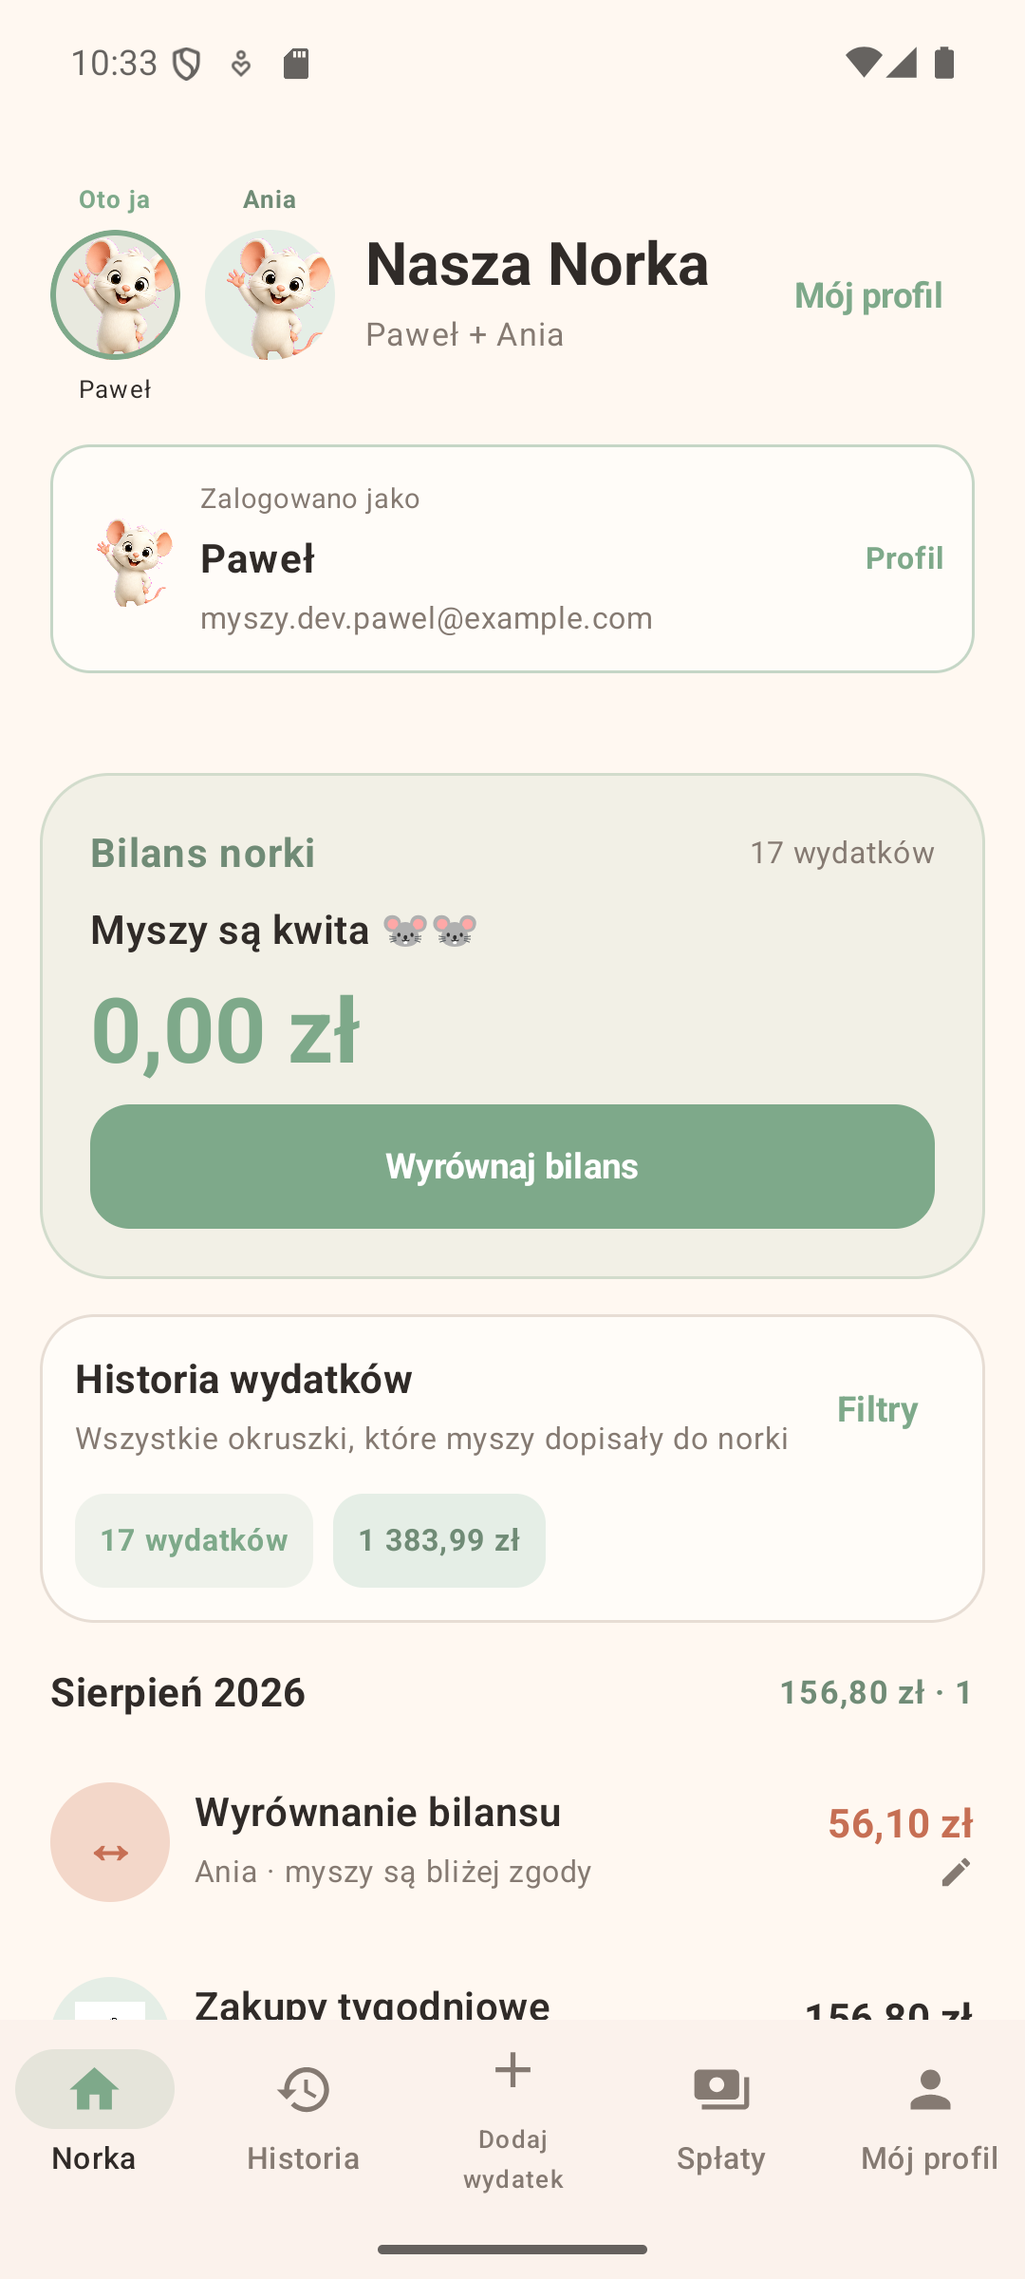
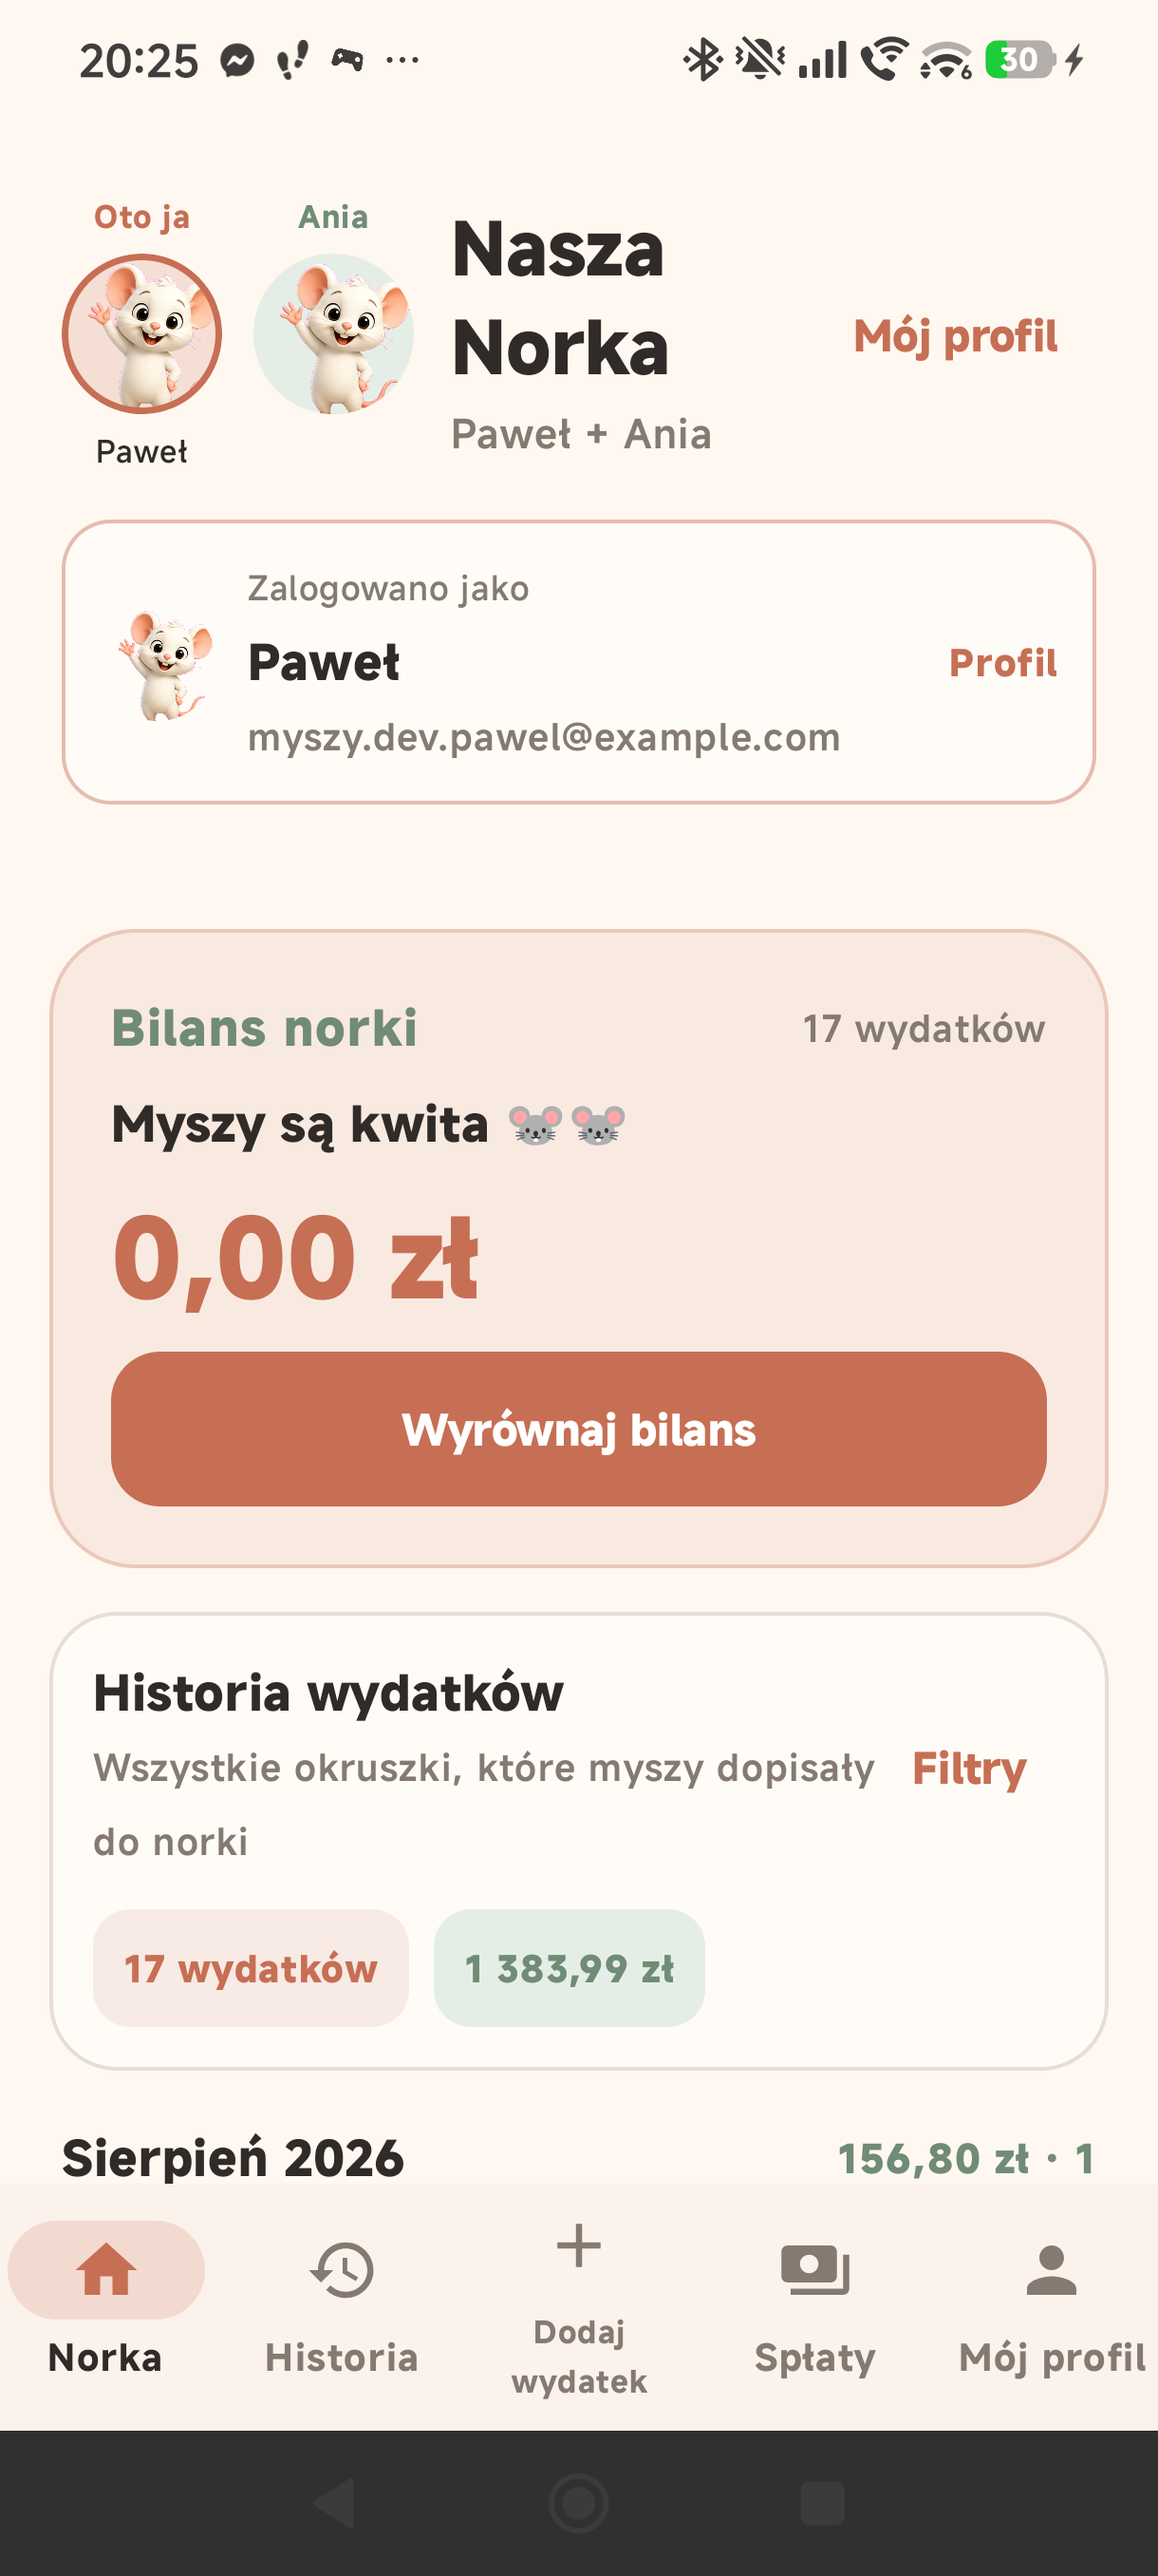
feat: refresh portfolio screenshots and settlement styling

diff --git a/app/src/main/java/pl/razem/myszy/MainActivity.kt b/app/src/main/java/pl/razem/myszy/MainActivity.kt
@@ -1091,15 +1091,16 @@ fun SettlementHistoryScreen(
                 item { Text(formatExpenseMonth(month), color = MouseInk, fontWeight = FontWeight.Bold, style = MaterialTheme.typography.titleMedium, modifier = Modifier.padding(top = 4.dp)) }
                 items(entries, key = { it.id }, contentType = { "settlement" }) { payment ->
                     val byPawel = isPawel(payment.payer)
-                    Surface(Modifier.fillMaxWidth().clickable { edit(payment) }, color = MouseSurface, shape = RoundedCornerShape(18.dp), border = BorderStroke(1.dp, MouseLine)) {
+                    Surface(Modifier.fillMaxWidth().clickable { edit(payment) }, color = MouseLavenderSoft.copy(alpha = .78f), shape = RoundedCornerShape(18.dp), border = BorderStroke(1.5.dp, MouseLavender.copy(alpha = .55f))) {
                         Row(Modifier.padding(14.dp), verticalAlignment = Alignment.CenterVertically) {
                             Surface(color = MouseLavenderSoft, shape = CircleShape, modifier = Modifier.size(48.dp)) { Image(painterResource(if (byPawel) R.drawable.misio_pawel else R.drawable.mysza_ania), null, Modifier.padding(3.dp).clip(CircleShape), contentScale = ContentScale.Crop) }
                             Spacer(Modifier.width(11.dp))
                             Column(Modifier.weight(1f)) {
                                 val payerName = payment.payer.ifBlank { currentName }
                                 val receiverName = if (payerName.equals(currentName, ignoreCase = true)) partnerName else currentName
-                                Text("$payerName spłaca $receiverName", color = MouseInk, fontWeight = FontWeight.Bold)
-                                Text(formatExpenseDate(payment.occurredAt), color = MouseMuted, fontSize = 12.sp)
+                                Text("$payerName spłaca $receiverName", color = MouseInk, fontWeight = FontWeight.Bold, maxLines = 1)
+                                Surface(color = MouseLavender, shape = RoundedCornerShape(7.dp)) { Text("WYRÓWNANIE", color = Color.White, fontSize = 9.sp, fontWeight = FontWeight.ExtraBold, modifier = Modifier.padding(horizontal = 7.dp, vertical = 3.dp)) }
+                                Text(formatExpenseDate(payment.occurredAt), color = MouseMuted, fontSize = 12.sp, maxLines = 1)
                                 if (payment.comment.isNotBlank()) Text(payment.comment, color = MouseMuted, fontSize = 12.sp, maxLines = 1)
                             }
                             Column(horizontalAlignment = Alignment.End) { Text(money(payment.amount), color = MouseLavender, style = MaterialTheme.typography.titleMedium, fontWeight = FontWeight.ExtraBold); Text("Edytuj", color = MouseMuted, fontSize = 11.sp) }
